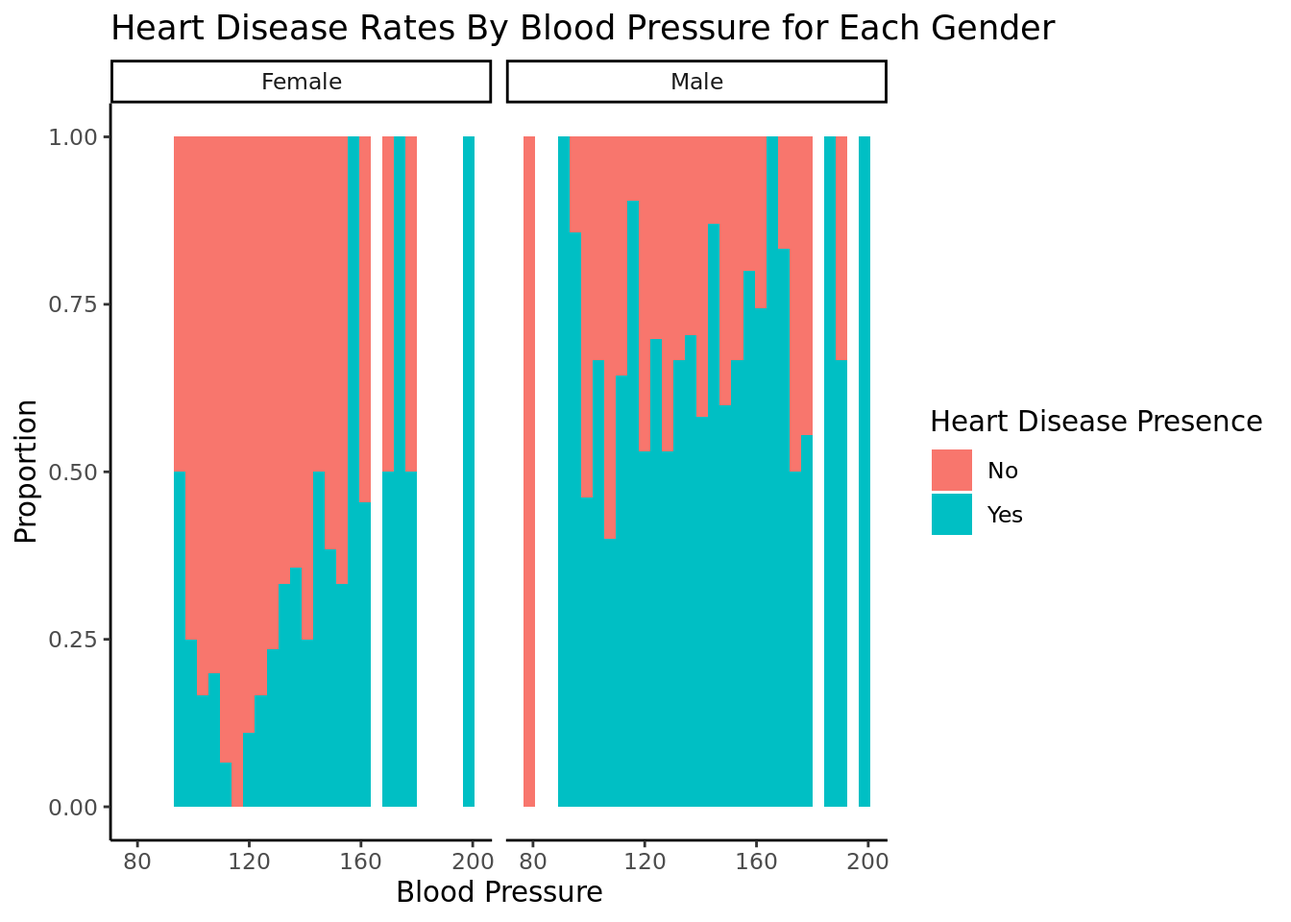
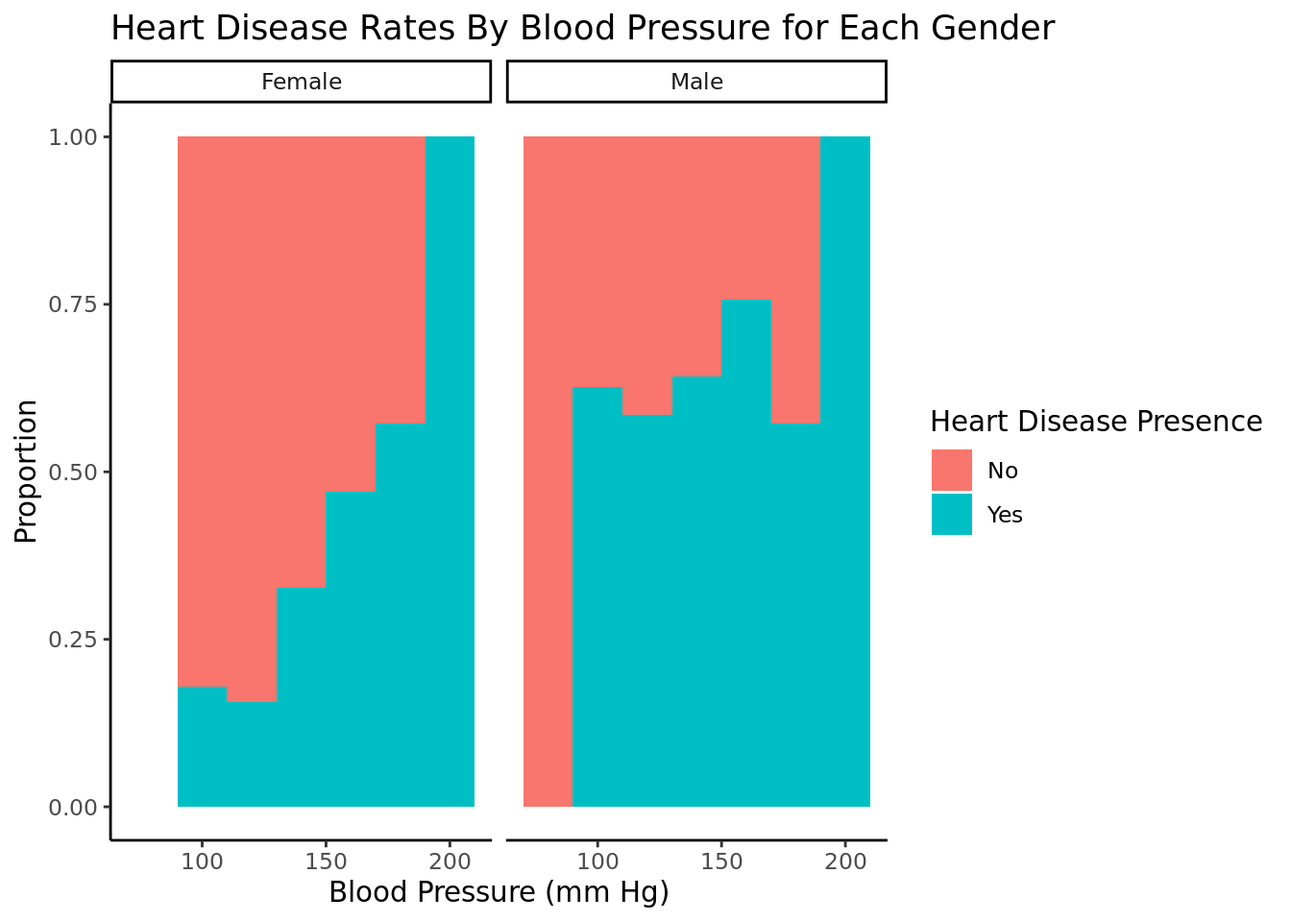
updates

diff --git a/docs/report.html b/docs/report.html
@@ -122,6 +122,7 @@ code span.wa { color: #60a0b0; font-weight: bold; font-style: italic; } /* Warni
   }
 }</script>
 
+  <script src="https://cdn.jsdelivr.net/npm/mathjax@3/es5/tex-chtml-full.js" type="text/javascript"></script>
 
 </head>
 
@@ -166,10 +167,12 @@ code span.wa { color: #60a0b0; font-weight: bold; font-style: italic; } /* Warni
     <h2 id="toc-title">On this page</h2>
    
   <ul>
-  <li><a href="#introduction-and-data" id="toc-introduction-and-data" class="nav-link active" data-scroll-target="#introduction-and-data">Introduction and data</a></li>
+  <li><a href="#introduction-and-data" id="toc-introduction-and-data" class="nav-link active" data-scroll-target="#introduction-and-data">Introduction and data</a>
+  <ul class="collapse">
+  <li><a href="#literature-review" id="toc-literature-review" class="nav-link" data-scroll-target="#literature-review">Literature Review</a></li>
+  </ul></li>
   <li><a href="#methodology" id="toc-methodology" class="nav-link" data-scroll-target="#methodology">Methodology</a></li>
   <li><a href="#results" id="toc-results" class="nav-link" data-scroll-target="#results">Results</a></li>
-  <li><a href="#section" id="toc-section" class="nav-link" data-scroll-target="#section"></a></li>
   </ul>
 </nav>
     </div>
@@ -217,6 +220,15 @@ code span.wa { color: #60a0b0; font-weight: bold; font-style: italic; } /* Warni
 <li>thal: [normal; fixed defect; reversible defect]</li>
 <li>num: the predicted attribute 0 means no heart disease, and 1-4 is the degree to which they have it. In this case, 1-4 will be classified as 1, as we are not concerned with the degree to which they have heart disease, just that they have it.</li>
 </ol>
+<section id="literature-review" class="level2">
+<h2 class="anchored" data-anchor-id="literature-review">Literature Review</h2>
+<p>Citation:</p>
+<p>“Prevalence and Trends of Coronary Heart Disease in the United States, 2011 to 2018” Yi-Ting Hana&nbsp;Lee,&nbsp;MPH; Jing&nbsp;Fang,&nbsp;MD, MS; Linda&nbsp;Schieb,&nbsp;MSPH; et al.</p>
+<p>https://jamanetwork.com/journals/jamacardiology/fullarticle/2787707</p>
+<p>Summary:</p>
+<p>This article provided a broad overview of recent trends in coronary heart disease (CHD) in the United States from 2011-2018. This study relied on self-reported data from patients. Overall there was a minor decrease in the prevalence of CHD in the United States among all demographics. Between 2011 and 2018, the rate dropped from 6.2% to 6.0%. There were plenty of geographic and demographic differences and trends that are worth noting. First, there were some declines in adults over 65, college graduates, and residents of Utah. However, the prevalence of CHD rose in areas like Oregon and in adults 18-44.</p>
+<p>The data we have focuses more on the health aspects of heart disease, while the study looks at broad trends in demographics and geography. Being able to break down and group the data by patient information like race and age is helpful; our dataset has some of these demographic identifiers, but more of them could help our analysis.</p>
+</section>
 </section>
 <section id="methodology" class="level1">
 <h1>Methodology</h1>
@@ -248,7 +260,7 @@ code span.wa { color: #60a0b0; font-weight: bold; font-style: italic; } /* Warni
 ✖ dplyr::lag()      masks stats::lag()
 ✖ yardstick::spec() masks readr::spec()
 ✖ recipes::step()   masks stats::step()
-• Dig deeper into tidy modeling with R at https://www.tmwr.org</code></pre>
+• Learn how to get started at https://www.tidymodels.org/start/</code></pre>
 </div>
 </div>
 <div class="cell">
@@ -328,55 +340,52 @@ $ num      &lt;dbl&gt; 0, 2, 1, 0, 0, 0, 3, 0, 2, 1, 0, 0, 2, 0, 0, 0, 1, 0, 0, 
 <span id="cb12-3"><a href="#cb12-3" aria-hidden="true" tabindex="-1"></a>  <span class="fu">ggplot</span>(</span>
 <span id="cb12-4"><a href="#cb12-4" aria-hidden="true" tabindex="-1"></a>    <span class="fu">aes</span>(<span class="at">x =</span> chol, <span class="at">fill =</span> <span class="fu">if_else</span>(num <span class="sc">==</span> <span class="dv">1</span>, <span class="st">"Yes"</span>, <span class="st">"No"</span>))</span>
 <span id="cb12-5"><a href="#cb12-5" aria-hidden="true" tabindex="-1"></a>    ) <span class="sc">+</span></span>
-<span id="cb12-6"><a href="#cb12-6" aria-hidden="true" tabindex="-1"></a>  <span class="fu">geom_histogram</span>(<span class="at">position =</span> <span class="st">"fill"</span>, <span class="at">bins =</span> <span class="dv">20</span>) <span class="sc">+</span></span>
+<span id="cb12-6"><a href="#cb12-6" aria-hidden="true" tabindex="-1"></a>  <span class="fu">geom_histogram</span>(<span class="at">position =</span> <span class="st">"fill"</span>, <span class="at">bins =</span> <span class="dv">10</span>) <span class="sc">+</span></span>
 <span id="cb12-7"><a href="#cb12-7" aria-hidden="true" tabindex="-1"></a>  <span class="fu">labs</span>(<span class="at">title =</span> <span class="st">"Heart Disease Rates By Cholesterol"</span>,</span>
-<span id="cb12-8"><a href="#cb12-8" aria-hidden="true" tabindex="-1"></a>       <span class="at">x =</span> <span class="st">"Cholesterol Levels"</span>,</span>
+<span id="cb12-8"><a href="#cb12-8" aria-hidden="true" tabindex="-1"></a>       <span class="at">x =</span> <span class="st">"Cholesterol Levels (mg/dl)"</span>,</span>
 <span id="cb12-9"><a href="#cb12-9" aria-hidden="true" tabindex="-1"></a>       <span class="at">y =</span> <span class="st">"Proportion"</span>,         </span>
 <span id="cb12-10"><a href="#cb12-10" aria-hidden="true" tabindex="-1"></a>       <span class="at">fill =</span> <span class="st">"Heart Disease Presence"</span>) <span class="sc">+</span></span>
 <span id="cb12-11"><a href="#cb12-11" aria-hidden="true" tabindex="-1"></a>  <span class="fu">theme_classic</span>() <span class="sc">+</span></span>
 <span id="cb12-12"><a href="#cb12-12" aria-hidden="true" tabindex="-1"></a>  <span class="fu">scale_color_viridis_d</span>()</span></code><button title="Copy to Clipboard" class="code-copy-button"><i class="bi"></i></button></pre></div>
-<div class="cell-output cell-output-stderr">
-<pre><code>Warning: Removed 4 rows containing missing values (`geom_bar()`).</code></pre>
-</div>
 <div class="cell-output-display">
 <p><img src="report_files/figure-html/heart-disease-based-on-cholesterol-1.png" class="img-fluid" width="672"></p>
 </div>
 </div>
 <p>As cholesterol increases, heart disease rates increase. We filtered out entries with chol = 0 because that is not possible.</p>
 <div class="cell">
-<div class="sourceCode cell-code" id="cb14"><pre class="sourceCode r code-with-copy"><code class="sourceCode r"><span id="cb14-1"><a href="#cb14-1" aria-hidden="true" tabindex="-1"></a>heart_disease <span class="sc">|&gt;</span></span>
-<span id="cb14-2"><a href="#cb14-2" aria-hidden="true" tabindex="-1"></a>  <span class="fu">filter</span>(<span class="sc">!</span><span class="fu">is.na</span>(fbs)) <span class="sc">|&gt;</span></span>
-<span id="cb14-3"><a href="#cb14-3" aria-hidden="true" tabindex="-1"></a>  <span class="fu">ggplot</span>(</span>
-<span id="cb14-4"><a href="#cb14-4" aria-hidden="true" tabindex="-1"></a>    <span class="fu">aes</span>(<span class="at">x =</span> fbs, <span class="at">fill =</span> <span class="fu">if_else</span>(num <span class="sc">==</span> <span class="dv">1</span>, <span class="st">"Yes"</span>, <span class="st">"No"</span>))</span>
-<span id="cb14-5"><a href="#cb14-5" aria-hidden="true" tabindex="-1"></a>    ) <span class="sc">+</span></span>
-<span id="cb14-6"><a href="#cb14-6" aria-hidden="true" tabindex="-1"></a>  <span class="fu">geom_bar</span>(<span class="at">position =</span> <span class="st">"fill"</span>) <span class="sc">+</span></span>
-<span id="cb14-7"><a href="#cb14-7" aria-hidden="true" tabindex="-1"></a>  <span class="fu">labs</span>(<span class="at">title =</span> <span class="st">"Heart Disease Rates By Blood Sugar"</span>,</span>
-<span id="cb14-8"><a href="#cb14-8" aria-hidden="true" tabindex="-1"></a>       <span class="at">x =</span> <span class="st">"Blood Sugar Levels Above 150"</span>,</span>
-<span id="cb14-9"><a href="#cb14-9" aria-hidden="true" tabindex="-1"></a>       <span class="at">y =</span> <span class="st">"Proportion"</span>,         </span>
-<span id="cb14-10"><a href="#cb14-10" aria-hidden="true" tabindex="-1"></a>       <span class="at">fill =</span> <span class="st">"Heart Disease Presence"</span>) <span class="sc">+</span></span>
-<span id="cb14-11"><a href="#cb14-11" aria-hidden="true" tabindex="-1"></a>  <span class="fu">theme_classic</span>() <span class="sc">+</span></span>
-<span id="cb14-12"><a href="#cb14-12" aria-hidden="true" tabindex="-1"></a>  <span class="fu">scale_color_viridis_d</span>()</span></code><button title="Copy to Clipboard" class="code-copy-button"><i class="bi"></i></button></pre></div>
+<div class="sourceCode cell-code" id="cb13"><pre class="sourceCode r code-with-copy"><code class="sourceCode r"><span id="cb13-1"><a href="#cb13-1" aria-hidden="true" tabindex="-1"></a>heart_disease <span class="sc">|&gt;</span></span>
+<span id="cb13-2"><a href="#cb13-2" aria-hidden="true" tabindex="-1"></a>  <span class="fu">filter</span>(<span class="sc">!</span><span class="fu">is.na</span>(fbs)) <span class="sc">|&gt;</span></span>
+<span id="cb13-3"><a href="#cb13-3" aria-hidden="true" tabindex="-1"></a>  <span class="fu">ggplot</span>(</span>
+<span id="cb13-4"><a href="#cb13-4" aria-hidden="true" tabindex="-1"></a>    <span class="fu">aes</span>(<span class="at">x =</span> fbs, <span class="at">fill =</span> <span class="fu">if_else</span>(num <span class="sc">==</span> <span class="dv">1</span>, <span class="st">"Yes"</span>, <span class="st">"No"</span>))</span>
+<span id="cb13-5"><a href="#cb13-5" aria-hidden="true" tabindex="-1"></a>    ) <span class="sc">+</span></span>
+<span id="cb13-6"><a href="#cb13-6" aria-hidden="true" tabindex="-1"></a>  <span class="fu">geom_bar</span>(<span class="at">position =</span> <span class="st">"fill"</span>) <span class="sc">+</span></span>
+<span id="cb13-7"><a href="#cb13-7" aria-hidden="true" tabindex="-1"></a>  <span class="fu">labs</span>(<span class="at">title =</span> <span class="st">"Heart Disease Rates By Blood Sugar"</span>,</span>
+<span id="cb13-8"><a href="#cb13-8" aria-hidden="true" tabindex="-1"></a>       <span class="at">x =</span> <span class="st">"Blood Sugar Levels Above 150 mg/dl"</span>,</span>
+<span id="cb13-9"><a href="#cb13-9" aria-hidden="true" tabindex="-1"></a>       <span class="at">y =</span> <span class="st">"Proportion"</span>,         </span>
+<span id="cb13-10"><a href="#cb13-10" aria-hidden="true" tabindex="-1"></a>       <span class="at">fill =</span> <span class="st">"Heart Disease Presence"</span>) <span class="sc">+</span></span>
+<span id="cb13-11"><a href="#cb13-11" aria-hidden="true" tabindex="-1"></a>  <span class="fu">theme_classic</span>() <span class="sc">+</span></span>
+<span id="cb13-12"><a href="#cb13-12" aria-hidden="true" tabindex="-1"></a>  <span class="fu">scale_color_viridis_d</span>()</span></code><button title="Copy to Clipboard" class="code-copy-button"><i class="bi"></i></button></pre></div>
 <div class="cell-output-display">
 <p><img src="report_files/figure-html/heart-disease-based-on-blood-sugar-1.png" class="img-fluid" width="672"></p>
 </div>
 </div>
 <p>People with fasting blood sugar above 150 are more likely to have heart disease than those with fbs below 150.</p>
 <div class="cell">
-<div class="sourceCode cell-code" id="cb15"><pre class="sourceCode r code-with-copy"><code class="sourceCode r"><span id="cb15-1"><a href="#cb15-1" aria-hidden="true" tabindex="-1"></a>heart_disease <span class="sc">|&gt;</span></span>
-<span id="cb15-2"><a href="#cb15-2" aria-hidden="true" tabindex="-1"></a>  <span class="fu">filter</span>(trestbps <span class="sc">!=</span> <span class="dv">0</span>) <span class="sc">|&gt;</span></span>
-<span id="cb15-3"><a href="#cb15-3" aria-hidden="true" tabindex="-1"></a>  <span class="fu">ggplot</span>(</span>
-<span id="cb15-4"><a href="#cb15-4" aria-hidden="true" tabindex="-1"></a>    <span class="fu">aes</span>(<span class="at">x =</span> trestbps, <span class="at">fill =</span> <span class="fu">if_else</span>(num <span class="sc">==</span> <span class="dv">1</span>, <span class="st">"Yes"</span>, <span class="st">"No"</span>))</span>
-<span id="cb15-5"><a href="#cb15-5" aria-hidden="true" tabindex="-1"></a>    ) <span class="sc">+</span></span>
-<span id="cb15-6"><a href="#cb15-6" aria-hidden="true" tabindex="-1"></a>  <span class="fu">facet_wrap</span>(<span class="sc">~</span>sex) <span class="sc">+</span> </span>
-<span id="cb15-7"><a href="#cb15-7" aria-hidden="true" tabindex="-1"></a>  <span class="fu">geom_histogram</span>(<span class="at">position =</span> <span class="st">"fill"</span>, <span class="at">bins =</span> <span class="dv">30</span>) <span class="sc">+</span></span>
-<span id="cb15-8"><a href="#cb15-8" aria-hidden="true" tabindex="-1"></a>  <span class="fu">labs</span>(<span class="at">title =</span> <span class="st">"Heart Disease Rates By Blood Pressure for Each Gender"</span>,</span>
-<span id="cb15-9"><a href="#cb15-9" aria-hidden="true" tabindex="-1"></a>       <span class="at">x =</span> <span class="st">"Blood Pressure"</span>,</span>
-<span id="cb15-10"><a href="#cb15-10" aria-hidden="true" tabindex="-1"></a>       <span class="at">y =</span> <span class="st">"Proportion"</span>,         </span>
-<span id="cb15-11"><a href="#cb15-11" aria-hidden="true" tabindex="-1"></a>       <span class="at">fill =</span> <span class="st">"Heart Disease Presence"</span>) <span class="sc">+</span></span>
-<span id="cb15-12"><a href="#cb15-12" aria-hidden="true" tabindex="-1"></a>  <span class="fu">theme_classic</span>() <span class="sc">+</span></span>
-<span id="cb15-13"><a href="#cb15-13" aria-hidden="true" tabindex="-1"></a>  <span class="fu">scale_color_viridis_d</span>()</span></code><button title="Copy to Clipboard" class="code-copy-button"><i class="bi"></i></button></pre></div>
+<div class="sourceCode cell-code" id="cb14"><pre class="sourceCode r code-with-copy"><code class="sourceCode r"><span id="cb14-1"><a href="#cb14-1" aria-hidden="true" tabindex="-1"></a>heart_disease <span class="sc">|&gt;</span></span>
+<span id="cb14-2"><a href="#cb14-2" aria-hidden="true" tabindex="-1"></a>  <span class="fu">filter</span>(trestbps <span class="sc">!=</span> <span class="dv">0</span>) <span class="sc">|&gt;</span></span>
+<span id="cb14-3"><a href="#cb14-3" aria-hidden="true" tabindex="-1"></a>  <span class="fu">ggplot</span>(</span>
+<span id="cb14-4"><a href="#cb14-4" aria-hidden="true" tabindex="-1"></a>    <span class="fu">aes</span>(<span class="at">x =</span> trestbps, <span class="at">fill =</span> <span class="fu">if_else</span>(num <span class="sc">==</span> <span class="dv">1</span>, <span class="st">"Yes"</span>, <span class="st">"No"</span>))</span>
+<span id="cb14-5"><a href="#cb14-5" aria-hidden="true" tabindex="-1"></a>    ) <span class="sc">+</span></span>
+<span id="cb14-6"><a href="#cb14-6" aria-hidden="true" tabindex="-1"></a>  <span class="fu">facet_wrap</span>(<span class="sc">~</span>sex) <span class="sc">+</span> </span>
+<span id="cb14-7"><a href="#cb14-7" aria-hidden="true" tabindex="-1"></a>  <span class="fu">geom_histogram</span>(<span class="at">position =</span> <span class="st">"fill"</span>, <span class="at">bins =</span> <span class="dv">7</span>) <span class="sc">+</span></span>
+<span id="cb14-8"><a href="#cb14-8" aria-hidden="true" tabindex="-1"></a>  <span class="fu">labs</span>(<span class="at">title =</span> <span class="st">"Heart Disease Rates By Blood Pressure for Each Gender"</span>,</span>
+<span id="cb14-9"><a href="#cb14-9" aria-hidden="true" tabindex="-1"></a>       <span class="at">x =</span> <span class="st">"Blood Pressure (mm Hg)"</span>,</span>
+<span id="cb14-10"><a href="#cb14-10" aria-hidden="true" tabindex="-1"></a>       <span class="at">y =</span> <span class="st">"Proportion"</span>,         </span>
+<span id="cb14-11"><a href="#cb14-11" aria-hidden="true" tabindex="-1"></a>       <span class="at">fill =</span> <span class="st">"Heart Disease Presence"</span>) <span class="sc">+</span></span>
+<span id="cb14-12"><a href="#cb14-12" aria-hidden="true" tabindex="-1"></a>  <span class="fu">theme_classic</span>() <span class="sc">+</span></span>
+<span id="cb14-13"><a href="#cb14-13" aria-hidden="true" tabindex="-1"></a>  <span class="fu">scale_color_viridis_d</span>()</span></code><button title="Copy to Clipboard" class="code-copy-button"><i class="bi"></i></button></pre></div>
 <div class="cell-output cell-output-stderr">
-<pre><code>Warning: Removed 26 rows containing missing values (`geom_bar()`).</code></pre>
+<pre><code>Warning: Removed 2 rows containing missing values (`geom_bar()`).</code></pre>
 </div>
 <div class="cell-output-display">
 <p><img src="report_files/figure-html/heart-disease-based-on-blood-pressure-1.png" class="img-fluid" width="672"></p>
@@ -387,58 +396,117 @@ $ num      &lt;dbl&gt; 0, 2, 1, 0, 0, 0, 3, 0, 2, 1, 0, 0, 2, 0, 0, 0, 1, 0, 0, 
 <section id="results" class="level1">
 <h1>Results</h1>
 <div class="cell">
-<div class="sourceCode cell-code" id="cb17"><pre class="sourceCode r code-with-copy"><code class="sourceCode r"><span id="cb17-1"><a href="#cb17-1" aria-hidden="true" tabindex="-1"></a><span class="co">#sex</span></span>
-<span id="cb17-2"><a href="#cb17-2" aria-hidden="true" tabindex="-1"></a><span class="fu">linear_reg</span>() <span class="sc">|&gt;</span></span>
-<span id="cb17-3"><a href="#cb17-3" aria-hidden="true" tabindex="-1"></a>  <span class="fu">set_engine</span>(<span class="st">"lm"</span>) <span class="sc">|&gt;</span></span>
-<span id="cb17-4"><a href="#cb17-4" aria-hidden="true" tabindex="-1"></a>  <span class="fu">fit</span>(num <span class="sc">~</span> sex, <span class="at">data =</span> heart_disease) <span class="sc">|&gt;</span></span>
-<span id="cb17-5"><a href="#cb17-5" aria-hidden="true" tabindex="-1"></a>  <span class="fu">glance</span>() <span class="sc">|&gt;</span></span>
-<span id="cb17-6"><a href="#cb17-6" aria-hidden="true" tabindex="-1"></a>  <span class="fu">pull</span>(adj.r.squared)</span></code><button title="Copy to Clipboard" class="code-copy-button"><i class="bi"></i></button></pre></div>
+<div class="sourceCode cell-code" id="cb16"><pre class="sourceCode r code-with-copy"><code class="sourceCode r"><span id="cb16-1"><a href="#cb16-1" aria-hidden="true" tabindex="-1"></a>heart_disease <span class="ot">&lt;-</span> heart_disease <span class="sc">|&gt;</span></span>
+<span id="cb16-2"><a href="#cb16-2" aria-hidden="true" tabindex="-1"></a>  <span class="fu">mutate</span>(<span class="at">num =</span> <span class="fu">as.factor</span>(num))</span>
+<span id="cb16-3"><a href="#cb16-3" aria-hidden="true" tabindex="-1"></a></span>
+<span id="cb16-4"><a href="#cb16-4" aria-hidden="true" tabindex="-1"></a><span class="co">#sex</span></span>
+<span id="cb16-5"><a href="#cb16-5" aria-hidden="true" tabindex="-1"></a>sex_reg <span class="ot">&lt;-</span> <span class="fu">logistic_reg</span>() <span class="sc">|&gt;</span></span>
+<span id="cb16-6"><a href="#cb16-6" aria-hidden="true" tabindex="-1"></a>  <span class="fu">set_engine</span>(<span class="st">"glm"</span>) <span class="sc">|&gt;</span></span>
+<span id="cb16-7"><a href="#cb16-7" aria-hidden="true" tabindex="-1"></a>  <span class="fu">fit</span>(num <span class="sc">~</span> sex, <span class="at">data =</span> heart_disease, <span class="at">family =</span> <span class="st">"binomial"</span>)</span>
+<span id="cb16-8"><a href="#cb16-8" aria-hidden="true" tabindex="-1"></a></span>
+<span id="cb16-9"><a href="#cb16-9" aria-hidden="true" tabindex="-1"></a><span class="fu">glance</span>(sex_reg)<span class="sc">$</span>AIC</span></code><button title="Copy to Clipboard" class="code-copy-button"><i class="bi"></i></button></pre></div>
 <div class="cell-output cell-output-stdout">
-<pre><code>[1] 0.09343725</code></pre>
+<pre><code>[1] 1180.484</code></pre>
 </div>
-<div class="sourceCode cell-code" id="cb19"><pre class="sourceCode r code-with-copy"><code class="sourceCode r"><span id="cb19-1"><a href="#cb19-1" aria-hidden="true" tabindex="-1"></a><span class="co">#age</span></span>
-<span id="cb19-2"><a href="#cb19-2" aria-hidden="true" tabindex="-1"></a><span class="fu">linear_reg</span>() <span class="sc">|&gt;</span></span>
-<span id="cb19-3"><a href="#cb19-3" aria-hidden="true" tabindex="-1"></a>  <span class="fu">set_engine</span>(<span class="st">"lm"</span>) <span class="sc">|&gt;</span></span>
-<span id="cb19-4"><a href="#cb19-4" aria-hidden="true" tabindex="-1"></a>  <span class="fu">fit</span>(num <span class="sc">~</span> age, <span class="at">data =</span> heart_disease) <span class="sc">|&gt;</span></span>
-<span id="cb19-5"><a href="#cb19-5" aria-hidden="true" tabindex="-1"></a>  <span class="fu">glance</span>() <span class="sc">|&gt;</span></span>
-<span id="cb19-6"><a href="#cb19-6" aria-hidden="true" tabindex="-1"></a>  <span class="fu">pull</span>(adj.r.squared)</span></code><button title="Copy to Clipboard" class="code-copy-button"><i class="bi"></i></button></pre></div>
+<div class="sourceCode cell-code" id="cb18"><pre class="sourceCode r code-with-copy"><code class="sourceCode r"><span id="cb18-1"><a href="#cb18-1" aria-hidden="true" tabindex="-1"></a><span class="co">#age</span></span>
+<span id="cb18-2"><a href="#cb18-2" aria-hidden="true" tabindex="-1"></a>age_reg <span class="ot">&lt;-</span> <span class="fu">logistic_reg</span>() <span class="sc">|&gt;</span></span>
+<span id="cb18-3"><a href="#cb18-3" aria-hidden="true" tabindex="-1"></a>  <span class="fu">set_engine</span>(<span class="st">"glm"</span>) <span class="sc">|&gt;</span></span>
+<span id="cb18-4"><a href="#cb18-4" aria-hidden="true" tabindex="-1"></a>  <span class="fu">fit</span>(num <span class="sc">~</span> age, <span class="at">data =</span> heart_disease, <span class="at">family =</span> <span class="st">"binomial"</span>) </span>
+<span id="cb18-5"><a href="#cb18-5" aria-hidden="true" tabindex="-1"></a></span>
+<span id="cb18-6"><a href="#cb18-6" aria-hidden="true" tabindex="-1"></a><span class="fu">glance</span>(age_reg)<span class="sc">$</span>AIC</span></code><button title="Copy to Clipboard" class="code-copy-button"><i class="bi"></i></button></pre></div>
 <div class="cell-output cell-output-stdout">
-<pre><code>[1] 0.07891679</code></pre>
+<pre><code>[1] 1193</code></pre>
 </div>
-<div class="sourceCode cell-code" id="cb21"><pre class="sourceCode r code-with-copy"><code class="sourceCode r"><span id="cb21-1"><a href="#cb21-1" aria-hidden="true" tabindex="-1"></a><span class="co">#cholesterol</span></span>
-<span id="cb21-2"><a href="#cb21-2" aria-hidden="true" tabindex="-1"></a><span class="fu">linear_reg</span>() <span class="sc">|&gt;</span></span>
-<span id="cb21-3"><a href="#cb21-3" aria-hidden="true" tabindex="-1"></a>  <span class="fu">set_engine</span>(<span class="st">"lm"</span>) <span class="sc">|&gt;</span></span>
-<span id="cb21-4"><a href="#cb21-4" aria-hidden="true" tabindex="-1"></a>  <span class="fu">fit</span>(num <span class="sc">~</span> chol, <span class="at">data =</span> heart_disease <span class="sc">|&gt;</span></span>
-<span id="cb21-5"><a href="#cb21-5" aria-hidden="true" tabindex="-1"></a>        <span class="fu">filter</span>(chol <span class="sc">!=</span> <span class="dv">0</span>)) <span class="sc">|&gt;</span></span>
-<span id="cb21-6"><a href="#cb21-6" aria-hidden="true" tabindex="-1"></a>  <span class="fu">glance</span>() <span class="sc">|&gt;</span></span>
-<span id="cb21-7"><a href="#cb21-7" aria-hidden="true" tabindex="-1"></a>  <span class="fu">pull</span>(adj.r.squared)</span></code><button title="Copy to Clipboard" class="code-copy-button"><i class="bi"></i></button></pre></div>
+<div class="sourceCode cell-code" id="cb20"><pre class="sourceCode r code-with-copy"><code class="sourceCode r"><span id="cb20-1"><a href="#cb20-1" aria-hidden="true" tabindex="-1"></a><span class="co">#cholesterol</span></span>
+<span id="cb20-2"><a href="#cb20-2" aria-hidden="true" tabindex="-1"></a>chol_reg <span class="ot">&lt;-</span> <span class="fu">logistic_reg</span>() <span class="sc">|&gt;</span></span>
+<span id="cb20-3"><a href="#cb20-3" aria-hidden="true" tabindex="-1"></a>  <span class="fu">set_engine</span>(<span class="st">"glm"</span>) <span class="sc">|&gt;</span></span>
+<span id="cb20-4"><a href="#cb20-4" aria-hidden="true" tabindex="-1"></a>  <span class="fu">fit</span>(num <span class="sc">~</span> chol, <span class="at">data =</span> heart_disease <span class="sc">|&gt;</span></span>
+<span id="cb20-5"><a href="#cb20-5" aria-hidden="true" tabindex="-1"></a>        <span class="fu">filter</span>(chol <span class="sc">!=</span> <span class="dv">0</span>), <span class="at">family =</span> <span class="st">"binomial"</span>)</span>
+<span id="cb20-6"><a href="#cb20-6" aria-hidden="true" tabindex="-1"></a></span>
+<span id="cb20-7"><a href="#cb20-7" aria-hidden="true" tabindex="-1"></a><span class="fu">glance</span>(chol_reg)<span class="sc">$</span>AIC</span></code><button title="Copy to Clipboard" class="code-copy-button"><i class="bi"></i></button></pre></div>
 <div class="cell-output cell-output-stdout">
-<pre><code>[1] 0.01262413</code></pre>
+<pre><code>[1] 988.2217</code></pre>
 </div>
-<div class="sourceCode cell-code" id="cb23"><pre class="sourceCode r code-with-copy"><code class="sourceCode r"><span id="cb23-1"><a href="#cb23-1" aria-hidden="true" tabindex="-1"></a><span class="co">#blood sugar</span></span>
-<span id="cb23-2"><a href="#cb23-2" aria-hidden="true" tabindex="-1"></a><span class="fu">linear_reg</span>() <span class="sc">|&gt;</span></span>
-<span id="cb23-3"><a href="#cb23-3" aria-hidden="true" tabindex="-1"></a>  <span class="fu">set_engine</span>(<span class="st">"lm"</span>) <span class="sc">|&gt;</span></span>
-<span id="cb23-4"><a href="#cb23-4" aria-hidden="true" tabindex="-1"></a>  <span class="fu">fit</span>(num <span class="sc">~</span> fbs, <span class="at">data =</span> heart_disease) <span class="sc">|&gt;</span></span>
-<span id="cb23-5"><a href="#cb23-5" aria-hidden="true" tabindex="-1"></a>  <span class="fu">glance</span>() <span class="sc">|&gt;</span></span>
-<span id="cb23-6"><a href="#cb23-6" aria-hidden="true" tabindex="-1"></a>  <span class="fu">pull</span>(adj.r.squared)</span></code><button title="Copy to Clipboard" class="code-copy-button"><i class="bi"></i></button></pre></div>
+<div class="sourceCode cell-code" id="cb22"><pre class="sourceCode r code-with-copy"><code class="sourceCode r"><span id="cb22-1"><a href="#cb22-1" aria-hidden="true" tabindex="-1"></a><span class="co">#blood sugar</span></span>
+<span id="cb22-2"><a href="#cb22-2" aria-hidden="true" tabindex="-1"></a>fbs_reg <span class="ot">&lt;-</span> <span class="fu">logistic_reg</span>() <span class="sc">|&gt;</span></span>
+<span id="cb22-3"><a href="#cb22-3" aria-hidden="true" tabindex="-1"></a>  <span class="fu">set_engine</span>(<span class="st">"glm"</span>) <span class="sc">|&gt;</span></span>
+<span id="cb22-4"><a href="#cb22-4" aria-hidden="true" tabindex="-1"></a>  <span class="fu">fit</span>(num <span class="sc">~</span> fbs, <span class="at">data =</span> heart_disease, <span class="at">family =</span> <span class="st">"binomial"</span>)</span>
+<span id="cb22-5"><a href="#cb22-5" aria-hidden="true" tabindex="-1"></a></span>
+<span id="cb22-6"><a href="#cb22-6" aria-hidden="true" tabindex="-1"></a><span class="fu">glance</span>(fbs_reg)<span class="sc">$</span>AIC</span></code><button title="Copy to Clipboard" class="code-copy-button"><i class="bi"></i></button></pre></div>
 <div class="cell-output cell-output-stdout">
-<pre><code>[1] 0.01914148</code></pre>
+<pre><code>[1] 1135.806</code></pre>
 </div>
-<div class="sourceCode cell-code" id="cb25"><pre class="sourceCode r code-with-copy"><code class="sourceCode r"><span id="cb25-1"><a href="#cb25-1" aria-hidden="true" tabindex="-1"></a><span class="co">#bp and gender</span></span>
-<span id="cb25-2"><a href="#cb25-2" aria-hidden="true" tabindex="-1"></a><span class="fu">linear_reg</span>() <span class="sc">|&gt;</span></span>
-<span id="cb25-3"><a href="#cb25-3" aria-hidden="true" tabindex="-1"></a>  <span class="fu">set_engine</span>(<span class="st">"lm"</span>) <span class="sc">|&gt;</span></span>
-<span id="cb25-4"><a href="#cb25-4" aria-hidden="true" tabindex="-1"></a>  <span class="fu">fit</span>(num <span class="sc">~</span> trestbps <span class="sc">*</span> sex, <span class="at">data =</span> heart_disease <span class="sc">|&gt;</span></span>
-<span id="cb25-5"><a href="#cb25-5" aria-hidden="true" tabindex="-1"></a>        <span class="fu">filter</span>(trestbps <span class="sc">!=</span> <span class="dv">0</span>)) <span class="sc">|&gt;</span></span>
-<span id="cb25-6"><a href="#cb25-6" aria-hidden="true" tabindex="-1"></a>  <span class="fu">glance</span>() <span class="sc">|&gt;</span></span>
-<span id="cb25-7"><a href="#cb25-7" aria-hidden="true" tabindex="-1"></a>  <span class="fu">pull</span>(adj.r.squared)</span></code><button title="Copy to Clipboard" class="code-copy-button"><i class="bi"></i></button></pre></div>
+<div class="sourceCode cell-code" id="cb24"><pre class="sourceCode r code-with-copy"><code class="sourceCode r"><span id="cb24-1"><a href="#cb24-1" aria-hidden="true" tabindex="-1"></a><span class="co">#bp * sex</span></span>
+<span id="cb24-2"><a href="#cb24-2" aria-hidden="true" tabindex="-1"></a>bp_int_sex_reg <span class="ot">&lt;-</span> <span class="fu">logistic_reg</span>() <span class="sc">|&gt;</span></span>
+<span id="cb24-3"><a href="#cb24-3" aria-hidden="true" tabindex="-1"></a>  <span class="fu">set_engine</span>(<span class="st">"glm"</span>) <span class="sc">|&gt;</span></span>
+<span id="cb24-4"><a href="#cb24-4" aria-hidden="true" tabindex="-1"></a>  <span class="fu">fit</span>(num <span class="sc">~</span> trestbps <span class="sc">*</span> sex, <span class="at">data =</span> heart_disease <span class="sc">|&gt;</span></span>
+<span id="cb24-5"><a href="#cb24-5" aria-hidden="true" tabindex="-1"></a>        <span class="fu">filter</span>(trestbps <span class="sc">!=</span> <span class="dv">0</span>), <span class="at">family =</span> <span class="st">"binomial"</span>)</span>
+<span id="cb24-6"><a href="#cb24-6" aria-hidden="true" tabindex="-1"></a></span>
+<span id="cb24-7"><a href="#cb24-7" aria-hidden="true" tabindex="-1"></a><span class="fu">glance</span>(bp_int_sex_reg)<span class="sc">$</span>AIC</span></code><button title="Copy to Clipboard" class="code-copy-button"><i class="bi"></i></button></pre></div>
 <div class="cell-output cell-output-stdout">
-<pre><code>[1] 0.1105359</code></pre>
+<pre><code>[1] 1090.006</code></pre>
+</div>
+<div class="sourceCode cell-code" id="cb26"><pre class="sourceCode r code-with-copy"><code class="sourceCode r"><span id="cb26-1"><a href="#cb26-1" aria-hidden="true" tabindex="-1"></a><span class="co">#cholesterol * age</span></span>
+<span id="cb26-2"><a href="#cb26-2" aria-hidden="true" tabindex="-1"></a>int_chol_age <span class="ot">&lt;-</span> <span class="fu">logistic_reg</span>() <span class="sc">|&gt;</span></span>
+<span id="cb26-3"><a href="#cb26-3" aria-hidden="true" tabindex="-1"></a>  <span class="fu">set_engine</span>(<span class="st">"glm"</span>) <span class="sc">|&gt;</span></span>
+<span id="cb26-4"><a href="#cb26-4" aria-hidden="true" tabindex="-1"></a>  <span class="fu">fit</span>(num <span class="sc">~</span> chol <span class="sc">*</span> age, <span class="at">data =</span> heart_disease <span class="sc">|&gt;</span></span>
+<span id="cb26-5"><a href="#cb26-5" aria-hidden="true" tabindex="-1"></a>        <span class="fu">filter</span>(chol <span class="sc">!=</span> <span class="dv">0</span>), <span class="at">family =</span> <span class="st">"binomial"</span>)</span>
+<span id="cb26-6"><a href="#cb26-6" aria-hidden="true" tabindex="-1"></a></span>
+<span id="cb26-7"><a href="#cb26-7" aria-hidden="true" tabindex="-1"></a><span class="fu">glance</span>(int_chol_age)<span class="sc">$</span>AIC</span></code><button title="Copy to Clipboard" class="code-copy-button"><i class="bi"></i></button></pre></div>
+<div class="cell-output cell-output-stdout">
+<pre><code>[1] 926.4628</code></pre>
+</div>
+<div class="sourceCode cell-code" id="cb28"><pre class="sourceCode r code-with-copy"><code class="sourceCode r"><span id="cb28-1"><a href="#cb28-1" aria-hidden="true" tabindex="-1"></a><span class="co">#blood sugar + age</span></span>
+<span id="cb28-2"><a href="#cb28-2" aria-hidden="true" tabindex="-1"></a>fbs_add_age_reg <span class="ot">&lt;-</span> <span class="fu">logistic_reg</span>() <span class="sc">|&gt;</span></span>
+<span id="cb28-3"><a href="#cb28-3" aria-hidden="true" tabindex="-1"></a>  <span class="fu">set_engine</span>(<span class="st">"glm"</span>) <span class="sc">|&gt;</span></span>
+<span id="cb28-4"><a href="#cb28-4" aria-hidden="true" tabindex="-1"></a>  <span class="fu">fit</span>(num <span class="sc">~</span> fbs <span class="sc">+</span> age, <span class="at">data =</span> heart_disease, <span class="at">family =</span> <span class="st">"binomial"</span>)</span>
+<span id="cb28-5"><a href="#cb28-5" aria-hidden="true" tabindex="-1"></a></span>
+<span id="cb28-6"><a href="#cb28-6" aria-hidden="true" tabindex="-1"></a><span class="fu">glance</span>(fbs_add_age_reg)<span class="sc">$</span>AIC</span></code><button title="Copy to Clipboard" class="code-copy-button"><i class="bi"></i></button></pre></div>
+<div class="cell-output cell-output-stdout">
+<pre><code>[1] 1071.592</code></pre>
+</div>
+<div class="sourceCode cell-code" id="cb30"><pre class="sourceCode r code-with-copy"><code class="sourceCode r"><span id="cb30-1"><a href="#cb30-1" aria-hidden="true" tabindex="-1"></a><span class="co">#chol + sex</span></span>
+<span id="cb30-2"><a href="#cb30-2" aria-hidden="true" tabindex="-1"></a>add_chol_sex <span class="ot">&lt;-</span> <span class="fu">logistic_reg</span>() <span class="sc">|&gt;</span></span>
+<span id="cb30-3"><a href="#cb30-3" aria-hidden="true" tabindex="-1"></a>  <span class="fu">set_engine</span>(<span class="st">"glm"</span>) <span class="sc">|&gt;</span></span>
+<span id="cb30-4"><a href="#cb30-4" aria-hidden="true" tabindex="-1"></a>  <span class="fu">fit</span>(num <span class="sc">~</span> chol <span class="sc">+</span> sex, <span class="at">data =</span> heart_disease <span class="sc">|&gt;</span></span>
+<span id="cb30-5"><a href="#cb30-5" aria-hidden="true" tabindex="-1"></a>        <span class="fu">filter</span>(chol <span class="sc">!=</span> <span class="dv">0</span>), <span class="at">family =</span> <span class="st">"binomial"</span>)</span>
+<span id="cb30-6"><a href="#cb30-6" aria-hidden="true" tabindex="-1"></a></span>
+<span id="cb30-7"><a href="#cb30-7" aria-hidden="true" tabindex="-1"></a><span class="fu">glance</span>(add_chol_sex)<span class="sc">$</span>AIC</span></code><button title="Copy to Clipboard" class="code-copy-button"><i class="bi"></i></button></pre></div>
+<div class="cell-output cell-output-stdout">
+<pre><code>[1] 919.4695</code></pre>
+</div>
+<div class="sourceCode cell-code" id="cb32"><pre class="sourceCode r code-with-copy"><code class="sourceCode r"><span id="cb32-1"><a href="#cb32-1" aria-hidden="true" tabindex="-1"></a><span class="co">#best tidy</span></span>
+<span id="cb32-2"><a href="#cb32-2" aria-hidden="true" tabindex="-1"></a>add_chol_sex <span class="sc">|&gt;</span></span>
+<span id="cb32-3"><a href="#cb32-3" aria-hidden="true" tabindex="-1"></a>  <span class="fu">tidy</span>()</span></code><button title="Copy to Clipboard" class="code-copy-button"><i class="bi"></i></button></pre></div>
+<div class="cell-output cell-output-stdout">
+<pre><code># A tibble: 3 × 5
+  term        estimate std.error statistic  p.value
+  &lt;chr&gt;          &lt;dbl&gt;     &lt;dbl&gt;     &lt;dbl&gt;    &lt;dbl&gt;
+1 (Intercept) -2.76      0.429       -6.44 1.17e-10
+2 chol         0.00586   0.00145      4.04 5.30e- 5
+3 sexMale      1.60      0.206        7.77 7.63e-15</code></pre>
+</div>
+<div class="sourceCode cell-code" id="cb34"><pre class="sourceCode r code-with-copy"><code class="sourceCode r"><span id="cb34-1"><a href="#cb34-1" aria-hidden="true" tabindex="-1"></a><span class="co">#second best tidy</span></span>
+<span id="cb34-2"><a href="#cb34-2" aria-hidden="true" tabindex="-1"></a>int_chol_age <span class="sc">|&gt;</span></span>
+<span id="cb34-3"><a href="#cb34-3" aria-hidden="true" tabindex="-1"></a>  <span class="fu">tidy</span>()</span></code><button title="Copy to Clipboard" class="code-copy-button"><i class="bi"></i></button></pre></div>
+<div class="cell-output cell-output-stdout">
+<pre><code># A tibble: 4 × 5
+  term         estimate std.error statistic    p.value
+  &lt;chr&gt;           &lt;dbl&gt;     &lt;dbl&gt;     &lt;dbl&gt;      &lt;dbl&gt;
+1 (Intercept) -9.54      2.16         -4.42 0.00000992
+2 chol         0.0243    0.00842       2.89 0.00388   
+3 age          0.162     0.0399        4.06 0.0000485 
+4 chol:age    -0.000392  0.000155     -2.52 0.0116    </code></pre>
 </div>
 </div>
-<p>The best predictor of heart disease rates is an interactive model of blood pressure and sex because it has the highest adjusted r-squared. The second best predictor is sex itself. The worst predictor of heart disease rates is cholesterol because it has the lowest adjusted r-squared.</p>
-</section>
-<section id="section" class="level1">
-<h1></h1>
+<p>The best predictor of heart disease rates is an additive model of cholesterol and and sex because it has the lowest AIC of 919. The second best predictor is an interactive model of cholesterol and age, with an AIC of 926. The worst predictor of hearth disease rates is age, with an AIC of 1193.</p>
+<p>Best Model (chol + sex):</p>
+<p><span class="math inline">\(log(\hat{p} / (1-\hat{p})) = -2.76 + .006 * chol + 1.6 * sex\)</span></p>
+<p>where <span class="math inline">\(\hat{p}\)</span> is the probability of heart disease and sex = 1 if male and sex = 0 if female.</p>
+<p>Second Best Model (chol * age)</p>
+<p><span class="math inline">\(log(\hat{p} / (1-\hat{p})) = -9.54 + .024*chol + .162*age - .0004 * chol * age\)</span></p>
+<p>where <span class="math inline">\(\hat{p}\)</span> is the probability of heart disease.</p>
+<p>We use logistic regressions because we are examining whether or not individuals have heart disease, which is a categorical variable that we must convert to a factor in our data transformation. We filtered out data of cholesterol = 0 and blood pressure = 0 for regressions involving those variables because it is not possible for a living individual and is likely to do data not being collected or a null value, as opposed to the actual value. We chose these variables and interactions because we wanted a large breadth of variables potentially correlating with heart disease. We then wanted to see how certain interactions we predicted to be important, such as bp and sex, cholesterol and age, blood sugar and age, and cholesterol and sex, predicted heart disease.</p>
 
 
 </section>
